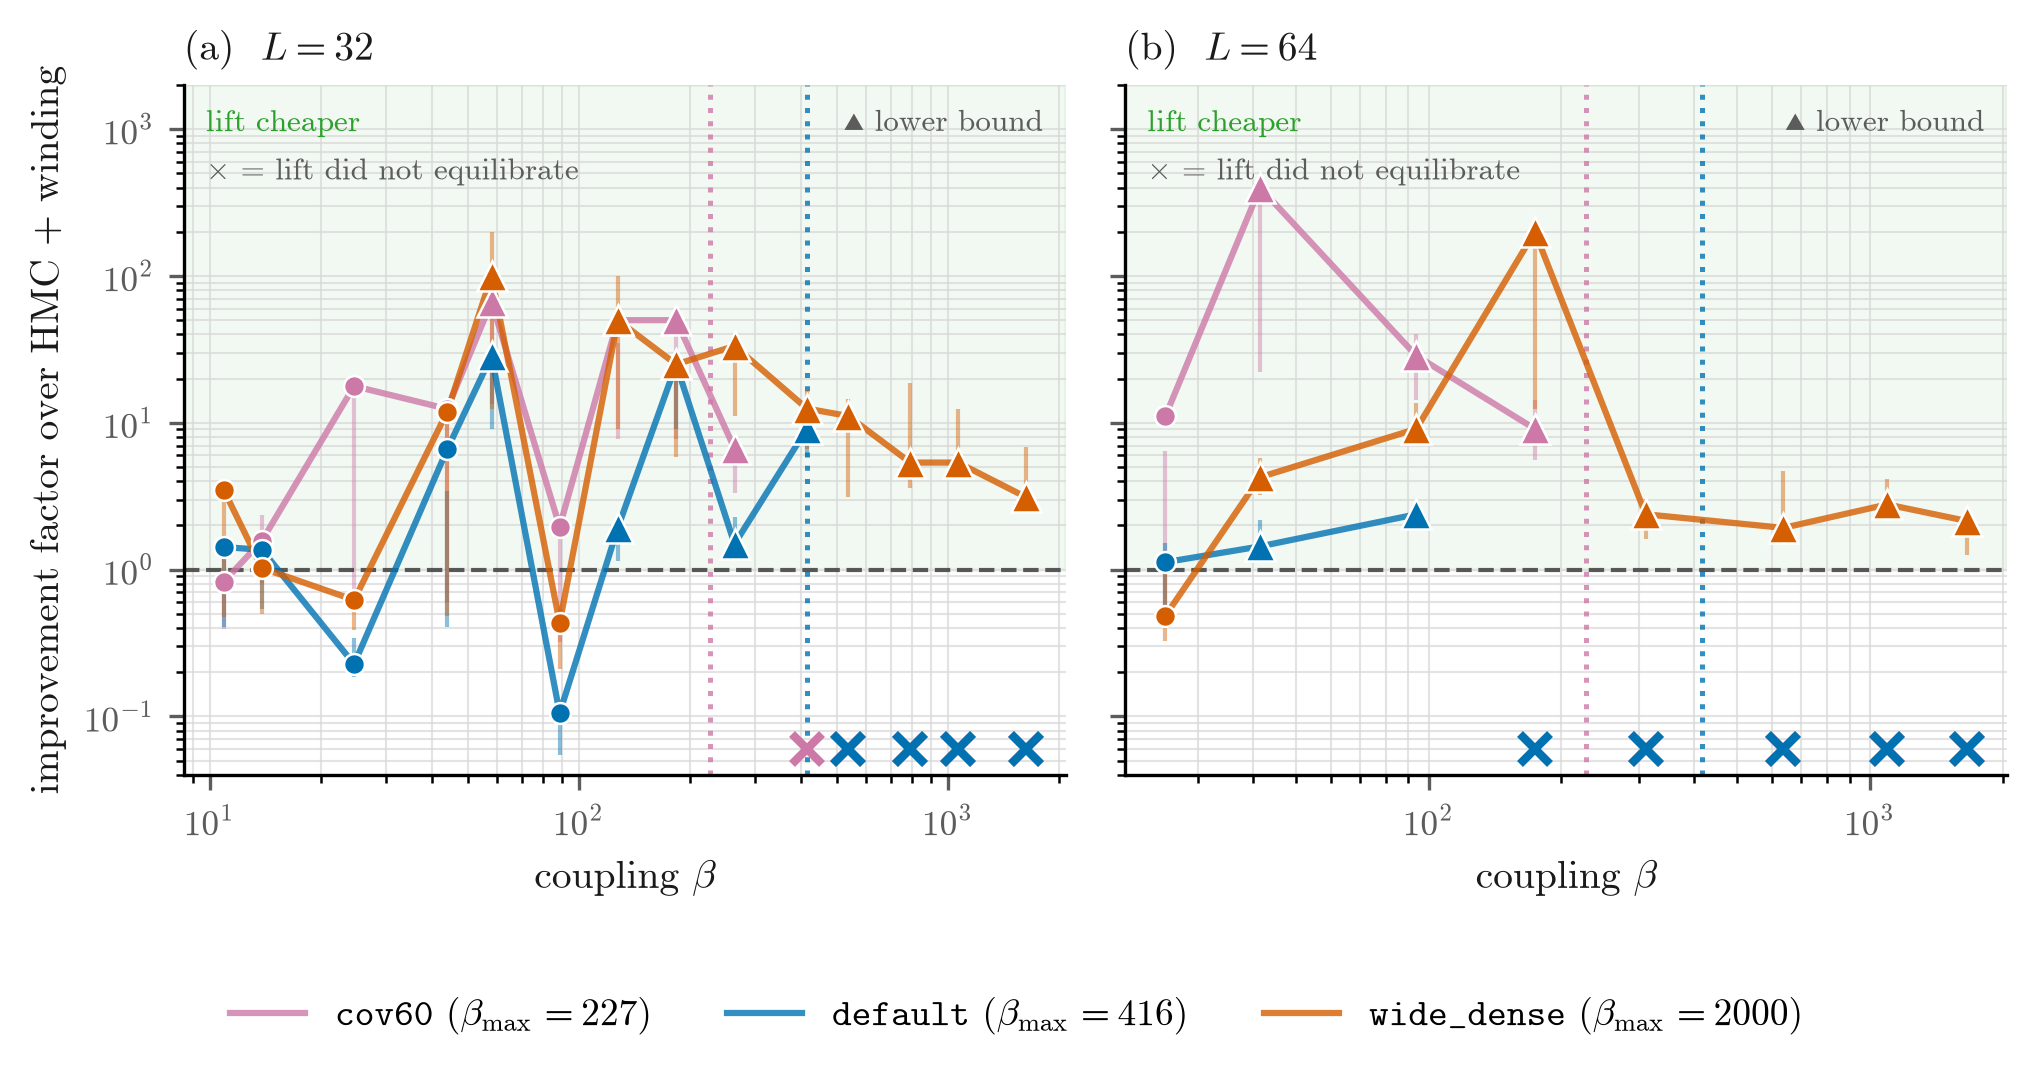
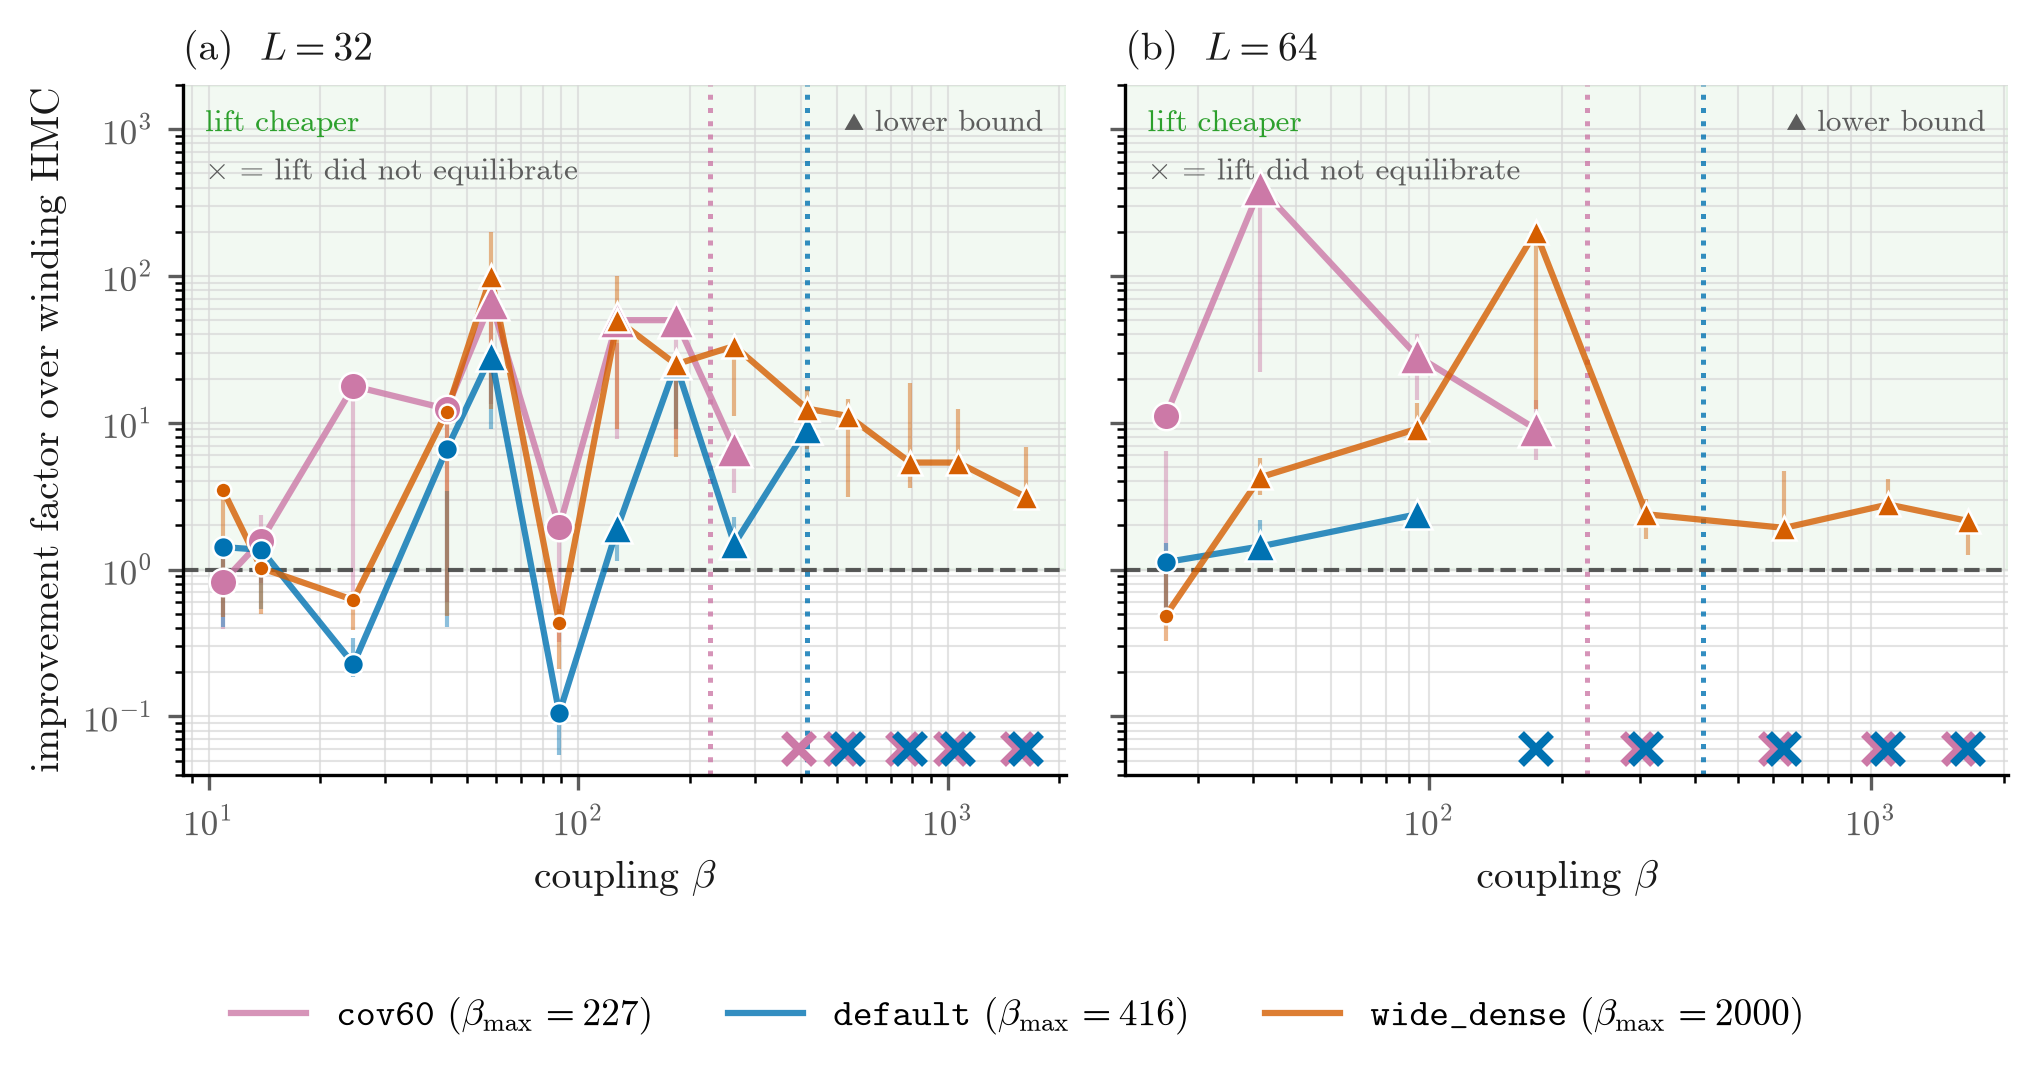
Paper working final revisions

diff --git a/u2_2d/scripts/88_uv_distribution_figure.py b/u2_2d/scripts/88_uv_distribution_figure.py
@@ -72,7 +72,12 @@ U2_BETA, U2_L = 416.524, 64
 # beta = 14.1464 a cold start's LOCAL observables are fully thermalised after
 # 640 trajectories (+0.06 sigma on the plaquette) while its topology has not
 # moved once.
-U1_TOPO_SERIES = ROOT / ("out/u1_2d/thermalization/L32_beta14.1464/"
+# From the VOLUME SCAN run, which is the one Sec. IV A quotes. There is a
+# second ensemble at this same (L, beta) under out/u1_2d/thermalization/, from
+# a separate run: it gives <Q^2>/exact = 0.86 where this one gives 0.95, and
+# drawing the figure from it while the text quoted the other put two numbers
+# for one quantity in the same paper.
+U1_TOPO_SERIES = ROOT / ("out/u1_2d/thermalization_volume/L32_beta14.1464/"
                          "A_bc4_L32_beta14.1464_series.npz")
 U1_TOPO_BETA, U1_L = 14.1464, 32
 
@@ -159,6 +164,9 @@ def panel(ax, arms, exact, key, label, xlim=6.0):
                     fontsize=8.5, color=colour)
 
     ax.axvline(0.0, color=INK, ls="--", lw=1.2, zorder=4)
+    # headroom for the annotation card, which is opaque and would otherwise
+    # have to sit on top of the distribution it is annotating
+    ax.set_ylim(0, ax.get_ylim()[1] * 1.3)
     ax.set_xlim(-xlim, xlim)
     ax.set_xticks([-4, -2, 0, 2, 4])
     ax.set_title(label, fontsize=9, color=INK, pad=3)
@@ -173,11 +181,15 @@ def panel(ax, arms, exact, key, label, xlim=6.0):
     # off-window arrows.
     w_cold = arms["cold"][key].std() / ref
     w_hot = arms["hot"][key].std() / ref
+    # on an opaque card: the distributions reach the top right corner at the
+      # narrow couplings and the block was being read through the bars
     ax.text(0.985, 0.88,
             sci_label(r"\sigma_{\rm cfg}", ref)
-            + f"\nwidth/lift\ncold {w_cold:.2f}\nhot {w_hot:.1f}",
+            + f"\nwidth/preconditioned\ncold {w_cold:.2f}\nhot {w_hot:.1f}",
             transform=ax.transAxes, ha="right", va="top", fontsize=7.5,
-            color=MUTED, linespacing=1.4)
+            color=MUTED, linespacing=1.4, zorder=6,
+            bbox=dict(facecolor="white", edgecolor="none", alpha=1.0,
+                      boxstyle="square,pad=0.25"))
 
 
 def sci_label(symbol: str, x: float) -> str:
@@ -264,10 +276,15 @@ def topo_panel(ax, arms, chains, qv, pq, title, volume, qmax=5, rng=None):
         idx = rng.integers(0, per_chain.size, size=(4000, per_chain.size))
         err = float(per_chain[idx].mean(axis=1).std())
         zs = (m - exact_q2) / err if err > 0 else np.inf
-        lines.append(f"{arm}  {m / exact_q2:.2f}"
-                     if np.isfinite(zs) else f"{arm}  0.00   (frozen)")
+        # the legend below the figure calls this arm "preconditioned";
+        # calling it "lift" here made it read as a fourth arm
+        name = {"lift": "preconditioned"}.get(arm, arm)
+        lines.append(f"{name}  {m / exact_q2:.2f}"
+                     if np.isfinite(zs) else f"{name}  0.00   (frozen)")
     ax.text(0.03, 0.97, "\n".join(lines), transform=ax.transAxes, ha="left",
-            va="top", fontsize=8.0, color=MUTED, linespacing=1.5)
+            va="top", fontsize=8.0, color=MUTED, linespacing=1.5, zorder=6,
+            bbox=dict(facecolor="white", edgecolor="none", alpha=1.0,
+                      boxstyle="square,pad=0.3"))
 
 
 def figure_topology(out_path):

diff --git a/u2_2d/scripts/89_money_figure.py b/u2_2d/scripts/89_money_figure.py
@@ -258,14 +258,24 @@ def ratio_panel(ax, stem, title, ts, plot=None):
 
         ax.plot(b[alive], F[alive], "-", color=colour, lw=1.5, alpha=0.8,
                 zorder=3, label=label)
-        ax.plot(b[meas], F[meas], "o", color=colour, ms=5, zorder=4,
+        # Checkpoints that agree at a coupling land on the same point, and the
+        # one drawn second hides the first. Stagger the marker SIZE rather than
+        # the position: x is data and must not move.
+        bump = {"cov60": 1.6, "default": 0.0, "wide": -0.6,
+                "wide_dense": -1.2}.get(ck, 0.0)
+        ax.plot(b[meas], F[meas], "o", color=colour, ms=5 + bump, zorder=4,
                 markeredgecolor="white", markeredgewidth=0.6)
-        ax.plot(b[bound], F[bound], "^", color=colour, ms=7, zorder=4,
+        ax.plot(b[bound], F[bound], "^", color=colour, ms=7 + bump, zorder=4,
                 markeredgecolor="white", markeredgewidth=0.6)
         if (~alive).any():
             # Below every measured factor (the smallest is 0.1), so a
             # failure cannot be read as a low measured value or vice versa.
-            ax.plot(b[~alive], np.full((~alive).sum(), CROSS_Y), "x",
+            # Checkpoints that fail at the SAME coupling would otherwise draw
+            # one cross on top of another and the lower one would be invisible,
+            # so each is nudged along the log axis by its own factor.
+            nudge = {"cov60": 0.955, "default": 1.0, "wide": 1.045,
+                     "wide_dense": 1.09}.get(ck, 1.0)
+            ax.plot(b[~alive] * nudge, np.full((~alive).sum(), CROSS_Y), "x",
                     color=colour, ms=7, mew=2.0, zorder=4)
         if b.min() <= ceil <= b.max() * 1.05:
             ax.axvline(ceil, color=colour, ls=":", lw=1.2, alpha=0.8, zorder=1)
@@ -285,7 +295,7 @@ def ratio_panel(ax, stem, title, ts, plot=None):
             transform=ax.transAxes, fontsize=7.5, color=MUTED, va="top")
     ax.text(0.975, 0.965, r"$\blacktriangle$ lower bound", transform=ax.transAxes,
             fontsize=7.5, color=MUTED, ha="right", va="top")
-    _style(ax, title, "improvement factor over HMC $+$ winding")
+    _style(ax, title, "improvement factor over winding HMC")
 
 
 def cost_panel(ax, stem, title, ts, only=None):
@@ -304,7 +314,7 @@ def cost_panel(ax, stem, title, ts, only=None):
     wind = np.nanmedian(np.vstack(wind), axis=0)
 
     for arr, colour, lab, mk in ((plain, PLAIN_C, "plain HMC", "D"),
-                                 (wind, WHMC_C, r"HMC $+$ winding", "s")):
+                                 (wind, WHMC_C, r"winding HMC", "s")):
         fin = np.isfinite(arr)
         ax.plot(betas[fin], arr[fin], mk + "-", color=colour, ms=4.5, lw=1.7,
                 zorder=4, label=lab)

diff --git a/u2_2d/scripts/91_ladder_volume_figure.py b/u2_2d/scripts/91_ladder_volume_figure.py
@@ -273,7 +273,10 @@ def main() -> int:
                                              lw=2.0))
     ax2.axhspan(BUDGET, 1e5, color="#2ca02c", alpha=0.07, zorder=0)
     ax2.axhline(1.0, color=MUTED, ls=":", lw=1.2, zorder=1)
-    ax2.set_ylim(0.5, 1e5)
+    # The first rung's classical interval reaches ~0.12, below the old 0.5
+    # floor, and was being clipped into the spine with no truncation mark --
+    # which hid that it straddles F = 1.
+    ax2.set_ylim(0.1, 1e5)
     ax2.set_ylabel("improvement factor", fontsize=9.5, color=INK)
     ax2.set_title("(b)  improvement factor", fontsize=9.5, color=INK, loc="left")
     ax2.text(0.5, 0.965,

diff --git a/docs/reverse_diffusion_figure.py b/docs/reverse_diffusion_figure.py
@@ -205,7 +205,7 @@ def main() -> int:
     arrow(ax, (x_0 - R - 0.6, ROW), (18.9, ROW), colour=MUTED)
     ax.text(10.25, 46.6, "ready for HMC", ha="center", va="bottom",
             fontsize=8.5, color=INK, fontproperties=PAPER_BOLD)
-    ax.text(10.25, 33.3, "after exact local rethermalization", ha="center",
+    ax.text(10.25, 33.3, "after exact local sweeps", ha="center",
             va="top", fontsize=7.5, color=MUTED)
 
     fig.tight_layout(pad=0.2)
